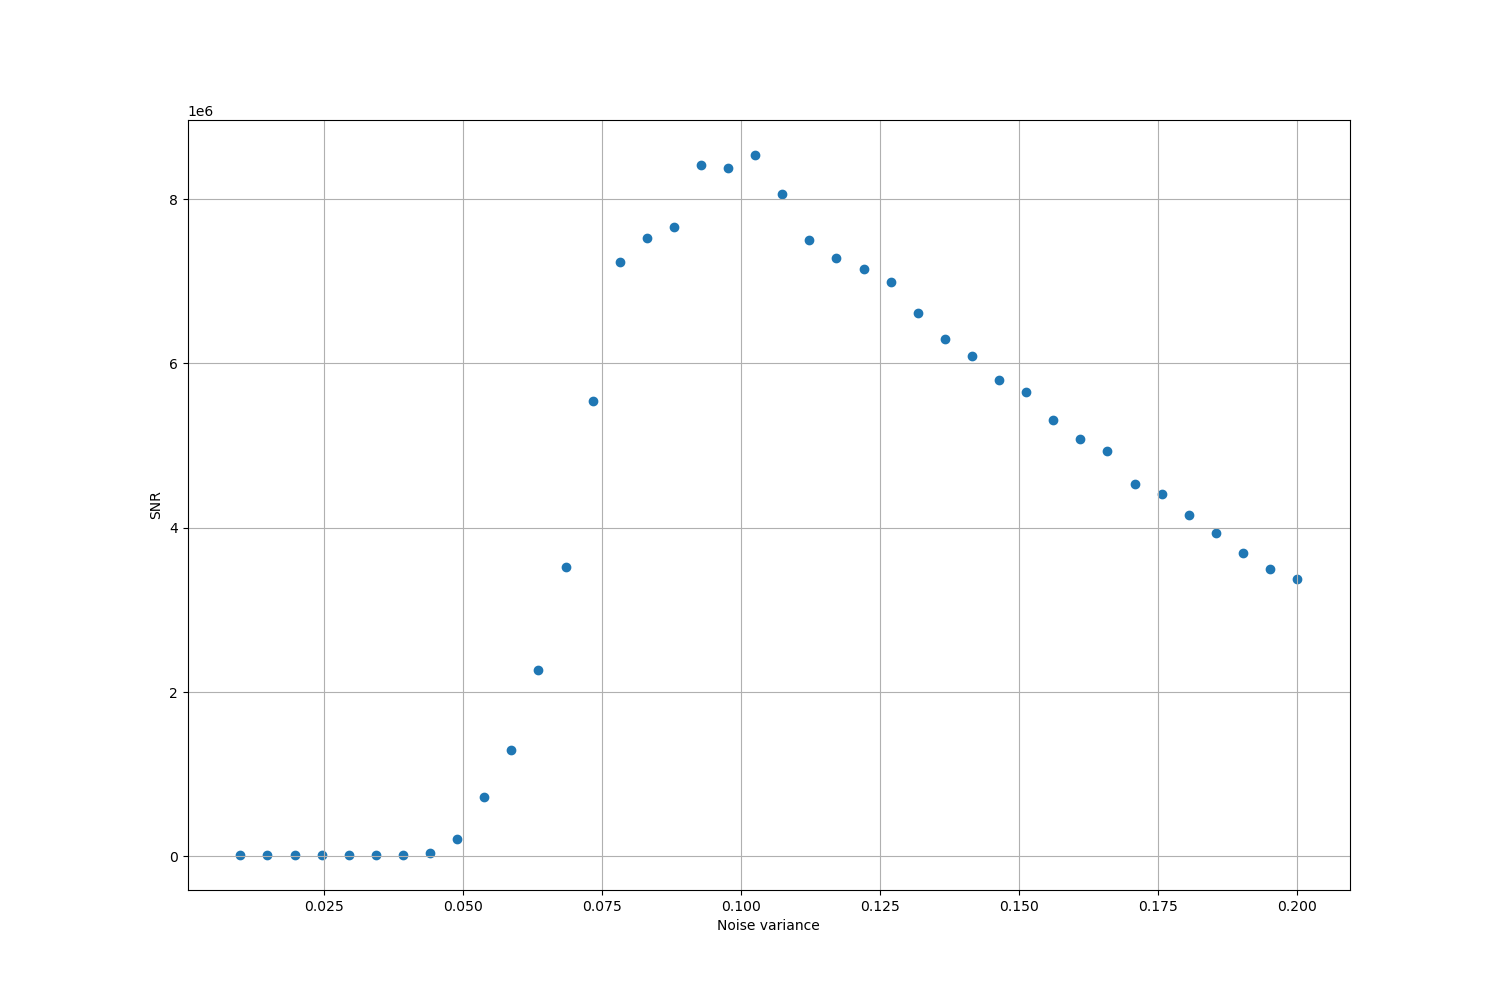
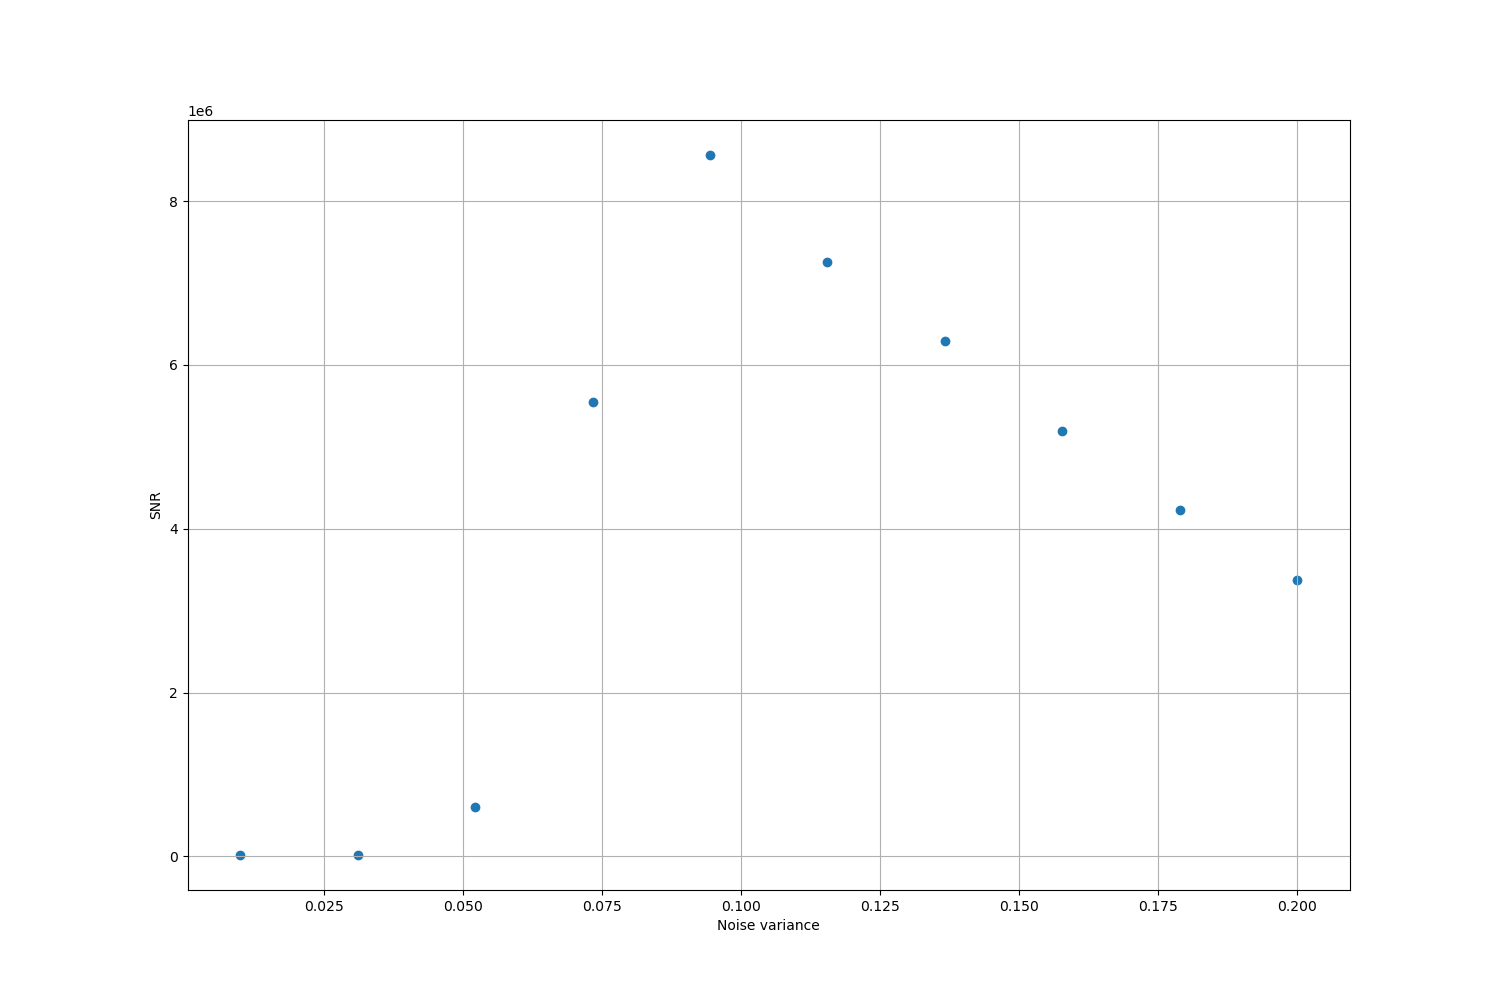
Changed Variables Scope and Data Handling in plots.py
In this commit, I have made two changes in the 'plots.py' module:

1. I have localized some previously global variables ('T1', 'T2' and 'T3'), restricting their scope to the specific functions where they are needed; namely, 'Plot_evolution_towards_steady_states()' and 'plot_simulate_ito()'.

2. Within the 'SNR_plot()' function, I have adjusted the way data is accessed. Instead of importing variables from 'simulation.py', I have updated the behaviour to construct the 'V' array using 'variance_start', 'variance_end' and 'num_variances' (all read from 'configuration.txt').
Additionally, the 'SNR' array is now read directly from the 'SNR.npy' file.
This change avoids the need for importing 'simulation.py' module.

diff --git a/plots.py b/plots.py
@@ -4,14 +4,11 @@ import os
 import stochastic_resonance
 import configparser
 
-import simulation
 
 config = configparser.ConfigParser()
 config.read('configuration.txt')
 
-T1 = config['settings'].getfloat('T1')
-T2 = config['settings'].getfloat('T2')
-T3 = config['settings'].getfloat('T3')
+SNR_data = config['paths'].get('simulated_SNR')
 
 os.makedirs('images', exist_ok = True)
 
@@ -43,8 +40,6 @@ def Plot_Emission_Models():
     #plt.legend()
     plt.title('Comparison between the two models for the emitted radiation')
 
-    #save_file_path = os.path.join('images', 'emitted_radiation_plot.png')
-    #plt.savefig(save_file_path)
     plt.savefig(radiation_destination)
 
     plt.show()
@@ -72,7 +67,6 @@ def Plot_F():
     #plt.legend()
     plt.title('Comparison between F(T) using a linear and a black body model for beta')
 
-    #save_file_path = os.path.join('images', 'F_plot.png')
     plt.savefig(F_destination)
 
     plt.show()
@@ -81,9 +75,9 @@ def Plot_evolution_towards_steady_states():
     """
     This function plots the evolution of the temperature towards the steady states
     """
-    stable_solution_1 = T1
-    unstable_solution = T2
-    stable_solution_2 = T3
+    stable_solution_1 = config['settings'].getfloat('T1')
+    unstable_solution = config['settings'].getfloat('T2')
+    stable_solution_2 = config['settings'].getfloat('T3')
     epsilon = 2.5
 
     T_start = np.array([stable_solution_1-epsilon, stable_solution_1, stable_solution_1+epsilon,
@@ -104,7 +98,6 @@ def Plot_evolution_towards_steady_states():
     #plt.legend()
     plt.title('Evolution of the temperature towards steady states')
 
-    #save_file_path = os.path.join('images', 'Evolution_of_temperature_towards_steady_states.png')
     plt.savefig(evolution_towards_steady_states_destination)
     plt.show()
 
@@ -115,6 +108,8 @@ def plot_simulate_ito():
 
     fig, axs = plt.subplots(2, 2, figsize = (30, 30))
     axs = axs.ravel()
+
+    T3 = config['settings'].getfloat('T3')
 
     time1, temperature1 = stochastic_resonance.simulate_ito(T_start = T3, t_start = 0, num_simulations = 1, noise = False, forcing = 'constant')
     time2, temperature2 = stochastic_resonance.simulate_ito(T_start = T3, t_start = 0, noise_variance = 0.11 , num_simulations = 1, noise = True, forcing = 'constant')
@@ -130,7 +125,6 @@ def plot_simulate_ito():
         ax.set_title(f'Plot {i+1}')
 
     plt.tight_layout()
-    #save_file_path = os.path.join('images', 'temperature_evolution_plot.png')
     plt.savefig(temperature_evolution_plot_destination)
     plt.show()
 
@@ -138,9 +132,15 @@ def SNR_plot():
     """
     This function plots the Signal to Noise Ratio as a function of the noise variance.
     """
-    f = plt.figure(figsize=(15, 10))
-    #print('Size V:', len(simulation.V), '\n', 'Size SNR', len(simulation.SNR))
-    plt.scatter(simulation.V, simulation.SNR)
+    variance_start = config['settings'].getfloat('variance_start')
+    variance_end = config['settings'].getfloat('variance_end')
+    num_variances = config['settings'].getint('num_variances')
+
+    V = np.linspace(variance_start, variance_end, num = num_variances)
+    SNR = np.load(SNR_data)
+
+    f = plt.figure(figsize = (15, 10))
+    plt.scatter(V, SNR)
     plt.xlabel('Noise variance')
     plt.ylabel('SNR')
     plt.title('')
